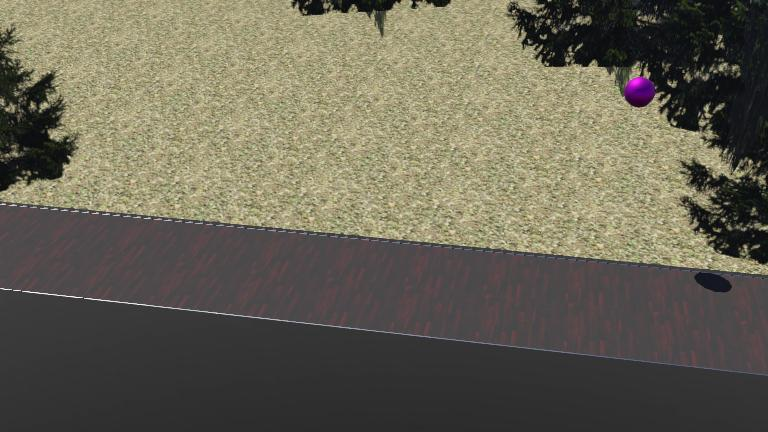
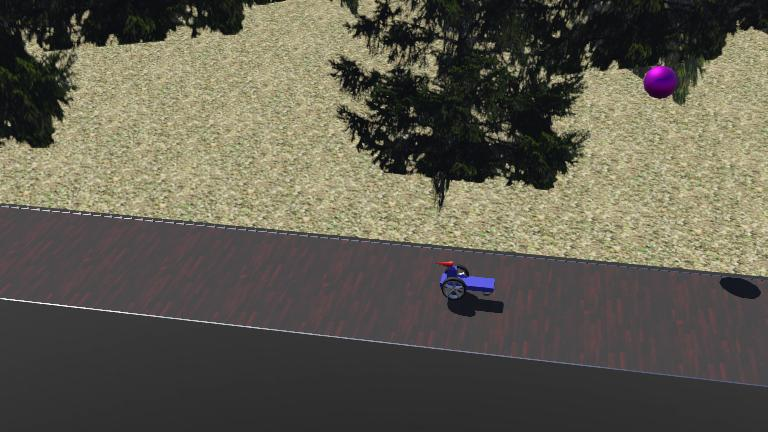
Setup strucutre form digital sim unit

diff --git a/webot_sim_env/controllers/sim_unit/sim_unit.py b/webot_sim_env/controllers/sim_unit/sim_unit.py
@@ -1,0 +1,32 @@
+"""sim_unit controller."""
+
+# You may need to import some classes of the controller module. Ex:
+#  from controller import Robot, Motor, DistanceSensor
+from controller import Robot
+
+# create the Robot instance.
+robot = Robot()
+
+# get the time step of the current world.
+timestep = int(robot.getBasicTimeStep())
+
+# You should insert a getDevice-like function in order to get the
+# instance of a device of the robot. Something like:
+#  motor = robot.getDevice('motorname')
+#  ds = robot.getDevice('dsname')
+#  ds.enable(timestep)
+
+# Main loop:
+# - perform simulation steps until Webots is stopping the controller
+while robot.step(timestep) != -1:
+    # Read the sensors:
+    # Enter here functions to read sensor data, like:
+    #  val = ds.getValue()
+
+    # Process sensor data here.
+
+    # Enter here functions to send actuator commands, like:
+    #  motor.setPosition(10.0)
+    pass
+
+# Enter here exit cleanup code.